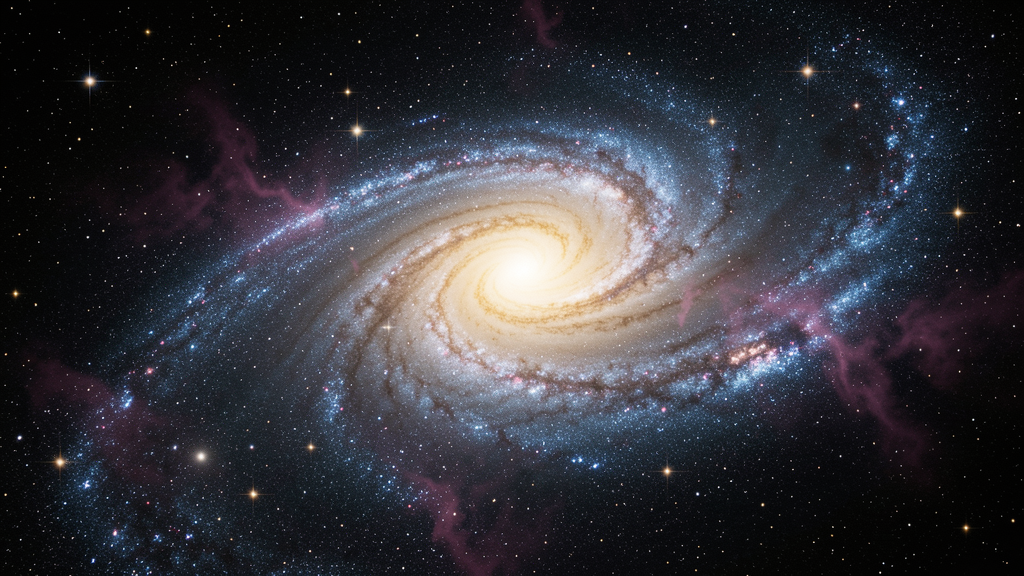
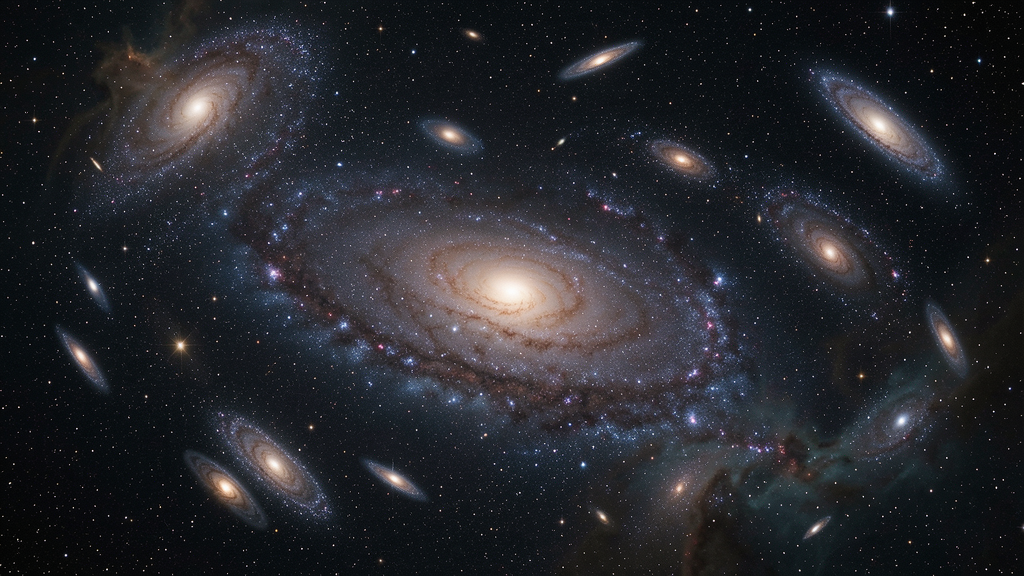
Use realistic galaxy backdrop with lightweight twinkling stars

diff --git a/index.html b/index.html
@@ -33,10 +33,28 @@
       text-decoration: underline;
     }
 
-    #space {
+    /* Realistic galaxy backdrop */
+    #galaxy-backdrop {
       position: fixed;
       inset: 0;
       z-index: 0;
+      background: url('/portfolio-site/wwwroot/galaxy/bg.png') center/cover no-repeat;
+      transform: translateZ(0);
+      will-change: transform;
+      animation: galaxyDrift 90s ease-in-out infinite alternate;
+    }
+
+    @keyframes galaxyDrift {
+      0% { transform: translate3d(0, 0, 0) scale(1.05); }
+      100% { transform: translate3d(-1.5%, -1%, 0) scale(1.08); }
+    }
+
+    /* Lightweight twinkling star overlay */
+    #space {
+      position: fixed;
+      inset: 0;
+      z-index: 1;
+      pointer-events: none;
     }
 
     .container {
@@ -329,6 +347,7 @@
   </style>
 </head>
 <body>
+  <div id="galaxy-backdrop" aria-hidden="true"></div>
   <canvas id="space" aria-hidden="true"></canvas>
 
   <header class="site-header">
@@ -528,173 +547,48 @@
       window.addEventListener('DOMContentLoaded', revealNow);
     }
 
-    /* Galaxy background */
+    /* Lightweight twinkling star overlay */
     (function () {
       const canvas = document.getElementById('space');
       if (!canvas) return;
       const ctx = canvas.getContext('2d');
-      let width, height, center, galaxy;
-      let stars = [], dust = [], nebulae = [];
+      let width, height, stars = [];
 
-      const rnd = (min = 0, max = 1) => Math.random() * (max - min) + min;
-      const clamp = (v, lo = 0, hi = 1) => Math.max(lo, Math.min(hi, v));
-
-      const hexToRgb = (hex) => {
-        const m = /^#?([a-f\d]{2})([a-f\d]{2})([a-f\d]{2})$/i.exec(hex);
-        return m ? [parseInt(m[1], 16), parseInt(m[2], 16), parseInt(m[3], 16)] : [255, 255, 255];
+      const resize = () => {
+        width = canvas.width = window.innerWidth;
+        height = canvas.height = window.innerHeight;
+        build();
       };
 
       const build = () => {
-        width = canvas.width = window.innerWidth;
-        height = canvas.height = window.innerHeight;
-        center = { x: width / 2, y: height / 2 };
-        const mobile = width < 720;
-        buildGalaxy(mobile);
+        const count = width < 720 ? 60 : Math.min(140, Math.floor((width * height) / 14000));
+        stars = Array.from({ length: count }, () => ({
+          x: Math.random() * width,
+          y: Math.random() * height,
+          radius: Math.random() * 0.9 + 0.3,
+          base: Math.random() * 0.6 + 0.2,
+          speed: Math.random() * 0.015 + 0.005,
+          phase: Math.random() * Math.PI * 2,
+        }));
       };
-
-      const buildGalaxy = (mobile) => {
-        console.time && console.time && console.time('galaxy:build');
-        galaxy = {
-          rotation: rnd(Math.PI * 0.5, Math.PI * 1.5),
-          rotationSpeed: rnd(0.00025, 0.00055) * (Math.random() > 0.5 ? 1 : -1),
-        };
-        const maxRadius = Math.max(width, height) * 0.9;
-        stars = [];
-        dust = [];
-        nebulae = [];
-
-        const starCount = mobile ? Math.min(700, Math.floor((width * height) / 2000)) : Math.min(1600, Math.floor((width * height) / 1200));
-        const dustCount = mobile ? 20 : 50;
-        const nebulaCount = mobile ? 5 : 9;
-
-        const palette = [[220,240,255],[190,220,255],[255,240,220],[255,210,180],[200,210,255],[255,180,160],[180,220,255]];
-
-        for (let i = 0; i < starCount; i++) {
-          const arm = Math.floor(Math.random() * 5);
-          const angle = (arm / 5) * Math.PI * 2;
-          const rNorm = Math.pow(Math.random(), 0.55);
-          const radius = rNorm * maxRadius;
-          const twist = (radius / maxRadius) * Math.PI * 2.2;
-          const jitter = (Math.random() - 0.5) * 0.8;
-          const a = angle + twist + jitter;
-          const x = Math.cos(a) * radius;
-          const y = Math.sin(a) * radius * 0.75;
-          const color = palette[Math.floor(Math.random() * palette.length)];
-          const size = Math.random() < 0.06 ? rnd(1.4, 2.2) : rnd(0.4, 1.1);
-          stars.push({ x, y, size, alpha: Math.random() < 0.12 ? 0.95 : rnd(0.2, 0.85), color });
-        }
-        for (let i = 0; i < dustCount; i++) {
-          const arm = Math.floor(Math.random() * 5);
-          const angle = (arm / 5) * Math.PI * 2;
-          const rNorm = Math.pow(Math.random(), 0.35);
-          const radius = rNorm * maxRadius;
-          const twist = (radius / maxRadius) * Math.PI * 2.2;
-          const jitter = (Math.random() - 0.5) * 0.7;
-          const a = angle + twist + jitter;
-          const x = Math.cos(a) * radius;
-          const y = Math.sin(a) * radius * 0.75;
-          dust.push({ x, y, radius: rnd(maxRadius * 0.05, maxRadius * 0.24), alpha: rnd(0.04, 0.16) });
-        }
-        for (let i = 0; i < nebulaCount; i++) {
-          const arm = Math.floor(Math.random() * 5);
-          const angle = (arm / 5) * Math.PI * 2 + rnd(-0.2, 0.2);
-          const rNorm = Math.pow(Math.random(), 0.55);
-          const radius = rNorm * maxRadius;
-          const twist = (radius / maxRadius) * Math.PI * 2.2;
-          const a = angle + twist;
-          const x = Math.cos(a) * radius;
-          const y = Math.sin(a) * radius * 0.75;
-          const hue = Math.random() > 0.5 ? '#7a5cff' : '#ff9a6c';
-          nebulae.push({ x, y, radius: rnd(maxRadius * 0.12, maxRadius * 0.32), rgb: hexToRgb(hue), alpha: rnd(0.08, 0.2) });
-        }
-        console.time && console.timeEnd && console.timeEnd('galaxy:build');
-      };
-
-      const projectX = (wx) => center.x + wx;
-      const projectY = (wy) => center.y + wy;
 
       const render = () => {
         ctx.clearRect(0, 0, width, height);
-        ctx.globalCompositeOperation = 'source-over';
-        const coreRadius = 190;
-        const coreGrad = ctx.createRadialGradient(center.x, center.y, 0, center.x, center.y, coreRadius);
-        coreGrad.addColorStop(0, `rgba(255,248,230,0.95)`);
-        coreGrad.addColorStop(0.4, `rgba(255,176,120,0.55)`);
-        coreGrad.addColorStop(0.75, `rgba(180,150,255,0.15)`);
-        coreGrad.addColorStop(1, `rgba(0,0,0,0)`);
-        ctx.fillStyle = coreGrad;
-        ctx.beginPath();
-        ctx.arc(center.x, center.y, coreRadius, 0, Math.PI * 2);
-        ctx.fill();
-
-        const maxDim = Math.max(width, height);
-        const cos = Math.cos(galaxy.rotation);
-        const sin = Math.sin(galaxy.rotation);
-
         ctx.globalCompositeOperation = 'screen';
-        for (let i = 0; i < nebulae.length; i++) {
-          const n = nebulae[i];
-          const rx = n.x * cos - n.y * sin;
-          const fade = clamp(0.6 + ((rx / maxDim) * 0.5) + 0.5);
-          const grad = ctx.createRadialGradient(projectX(rx), projectY(n.x * sin + n.y * cos), 0, projectX(rx), projectY(n.x * sin + n.y * cos), n.radius);
-          const [r,g,b] = n.rgb;
-          grad.addColorStop(0, `rgba(${r},${g},${b},${n.alpha * fade})`);
-          grad.addColorStop(1, `rgba(${r},${g},${b},0)`);
-          ctx.fillStyle = grad;
-          ctx.beginPath();
-          ctx.arc(projectX(rx), projectY(n.x * sin + n.y * cos), n.radius, 0, Math.PI * 2);
-          ctx.fill();
-        }
-
-        ctx.globalCompositeOperation = 'source-over';
-        for (let i = 0; i < dust.length; i++) {
-          const d = dust[i];
-          const rx = d.x * cos - d.y * sin;
-          const ry = d.x * sin + d.y * cos;
-          const fade = clamp(0.6 + ((rx / maxDim) * 0.5) + 0.5);
-          const grad = ctx.createRadialGradient(projectX(rx), projectY(ry), 0, projectX(rx), projectY(ry), d.radius);
-          grad.addColorStop(0, `rgba(8,6,14,${d.alpha * fade})`);
-          grad.addColorStop(1, `rgba(8,6,14,0)`);
-          ctx.fillStyle = grad;
-          ctx.beginPath();
-          ctx.arc(projectX(rx), projectY(ry), d.radius, 0, Math.PI * 2);
-          ctx.fill();
-        }
-
-        ctx.globalCompositeOperation = 'screen';
+        const t = Date.now() * 0.001;
         for (let i = 0; i < stars.length; i++) {
           const s = stars[i];
-          const rx = s.x * cos - s.y * sin;
-          const ry = s.x * sin + s.y * cos;
-          const alpha = s.alpha * clamp(0.55 + ((rx / maxDim) * 0.5) + 0.5);
-          if (alpha <= 0.05) continue;
-          const px = projectX(rx);
-          const py = projectY(ry);
-          if (s.size > 1.1) {
-            const rad = s.size * 4;
-            const grad = ctx.createRadialGradient(px, py, 0, px, py, rad);
-            grad.addColorStop(0, `rgba(${s.color[0]},${s.color[1]},${s.color[2]},${alpha})`);
-            grad.addColorStop(0.6, `rgba(${s.color[0]},${s.color[1]},${s.color[2]},${alpha * 0.35})`);
-            grad.addColorStop(1, `rgba(${s.color[0]},${s.color[1]},${s.color[2]},0)`);
-            ctx.fillStyle = grad;
-            ctx.beginPath();
-            ctx.arc(px, py, rad, 0, Math.PI * 2);
-            ctx.fill();
-          } else {
-            ctx.fillStyle = `rgba(${s.color[0]},${s.color[1]},${s.color[2]},${alpha})`;
-            ctx.beginPath();
-            ctx.arc(px, py, s.size, 0, Math.PI * 2);
-            ctx.fill();
-          }
+          const alpha = Math.max(0.15, Math.min(1, s.base + Math.sin(t * s.speed * 60 + s.phase) * 0.35));
+          ctx.fillStyle = `rgba(255,255,255,${alpha})`;
+          ctx.beginPath();
+          ctx.arc(s.x, s.y, s.radius, 0, Math.PI * 2);
+          ctx.fill();
         }
-
-        galaxy.rotation += galaxy.rotationSpeed;
-        if (galaxy.rotation > Math.PI * 20) galaxy.rotation -= Math.PI * 20;
         requestAnimationFrame(render);
       };
 
-      window.addEventListener('resize', build);
-      build();
+      window.addEventListener('resize', resize);
+      resize();
       requestAnimationFrame(render);
     })();
   </script>